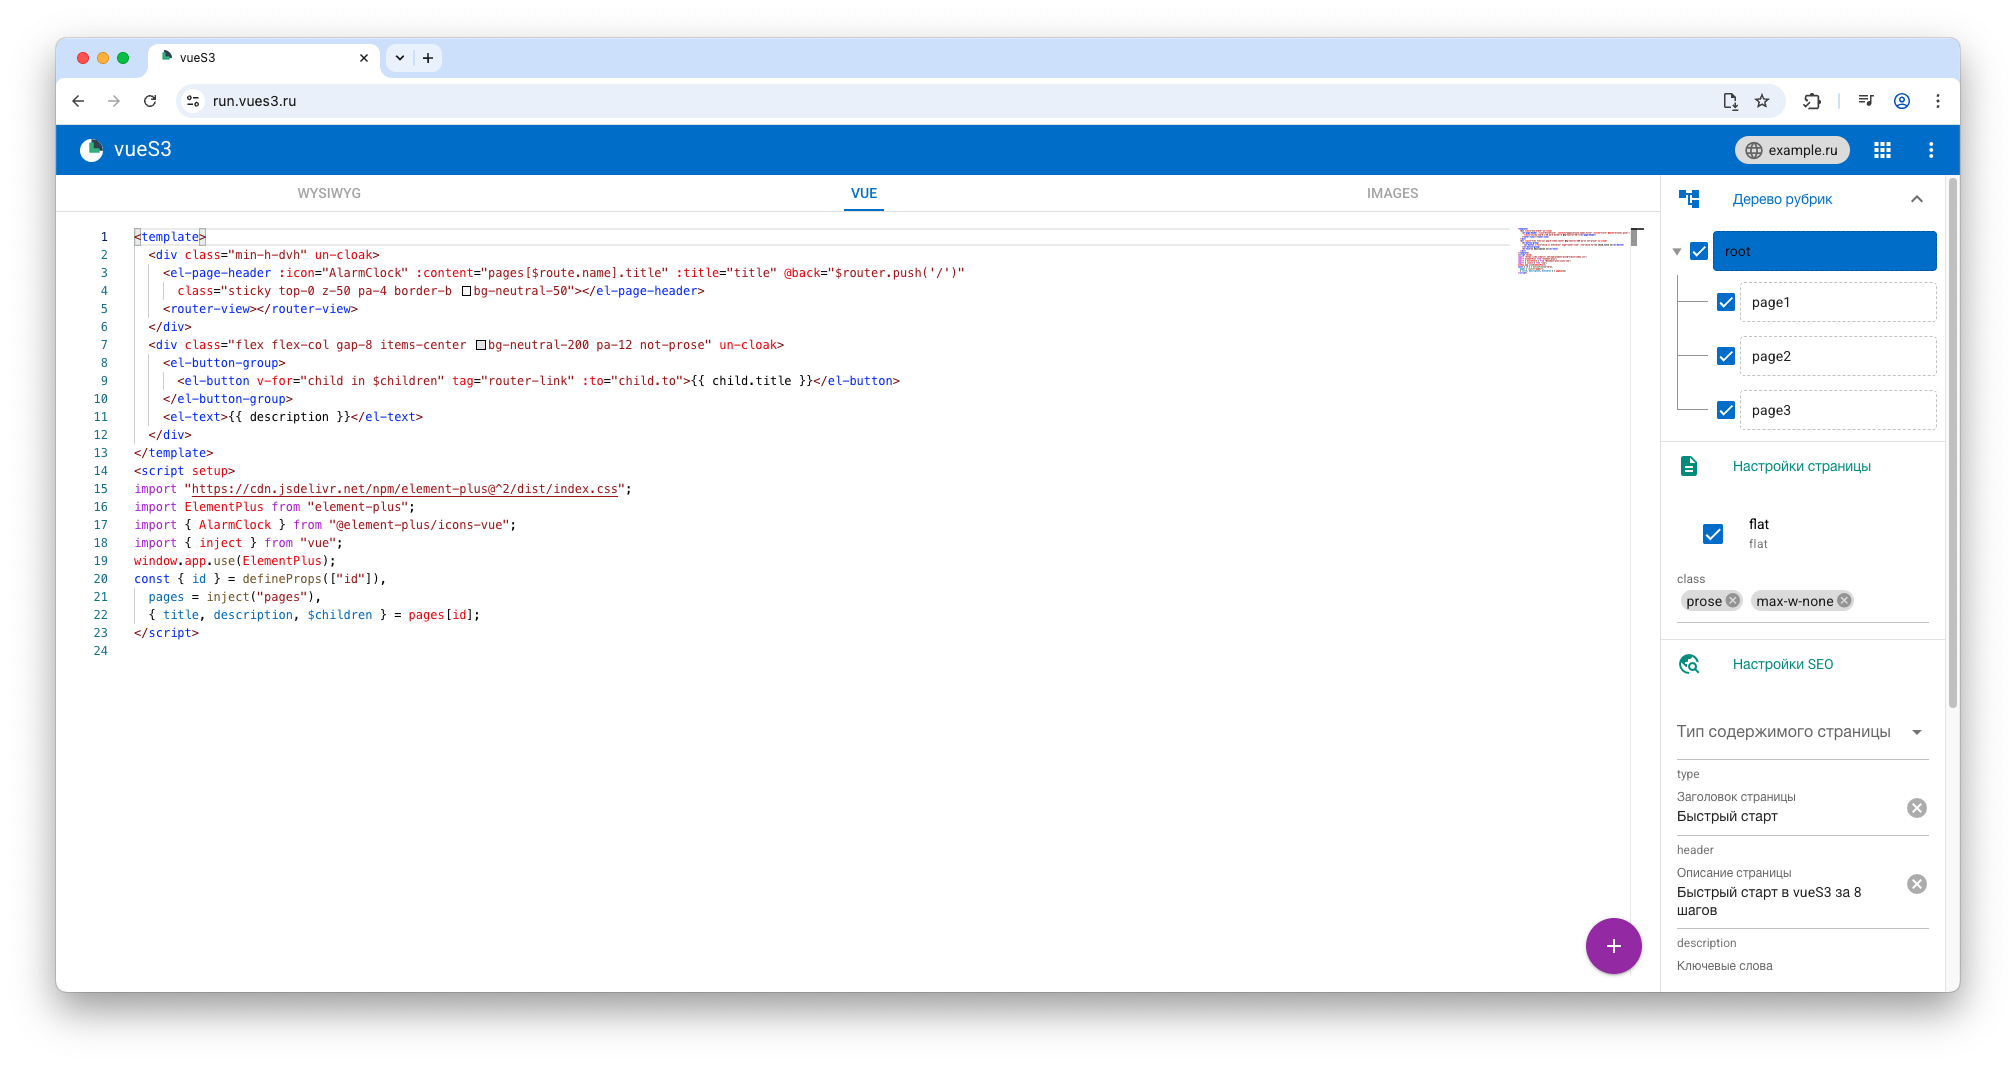
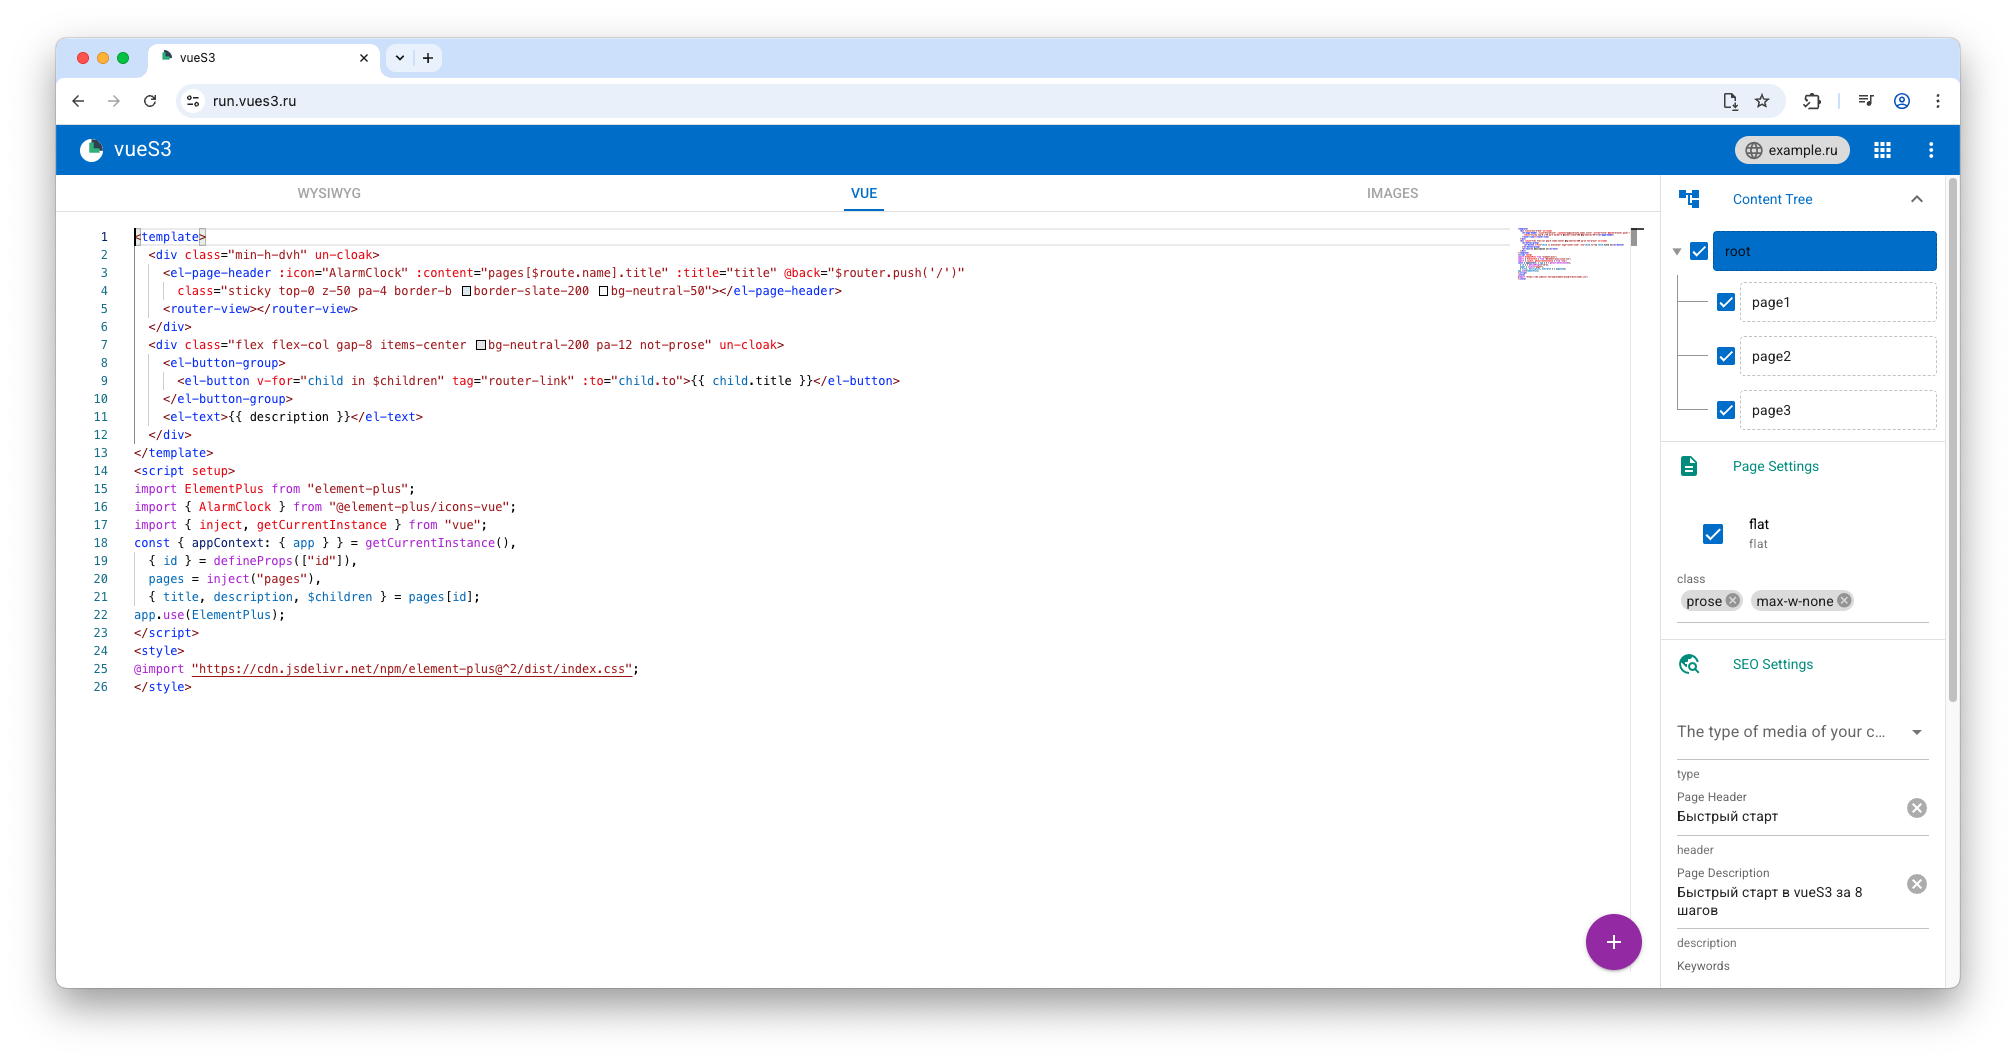
2025-05-05

diff --git a/pages/1d795ae8-237f-4d9d-9e52-54d150f1e5f2.vue b/pages/1d795ae8-237f-4d9d-9e52-54d150f1e5f2.vue
@@ -44,9 +44,6 @@
                 <dd class="text-slate-500">{{ t(`ex2dl.${key}`) }}</dd>
             </template>
         </dl>
-        <p>{{ t("p7") }}:</p>
-        <highlightjs code='import from "url"' language="js" class="not-prose my-6"></highlightjs>
-        <p>{{ t("p8") }}</p>
         <div class="not-prose flex mt-48">
             <el-button-group class="mx-auto">
                 <el-button type="primary" :icon="ArrowLeft" :to="the.$prev.to" v-if="the.$prev" tag="router-link">{{
@@ -96,8 +93,6 @@ const messages = {
             "layer-name": "Is the name of a cascade layer into which the contents of the linked resource are imported.",
             "supports-condition": "Indicates the feature(s) that the browser must support in order for the stylesheet to be imported. If the browser does not conform to the conditions specified in the supports-condition, it may not fetch the linked stylesheet, and even if downloaded through some other path, will not load it.",
         },
-        p7: "Styles can be imported from the `script` section using a simple `import` directive.",
-        p8: "Styles can only be imported via a URL to a .css file; it is not possible to use names, and styles cannot be specified in the `importmap`.",
     },
     ru: {
         h_1: "Импортирование модулей",
@@ -125,8 +120,6 @@ const messages = {
             "layer-name": "Имя каскадного слоя, в который импортируется содержимое связанного ресурса.",
             "supports-condition": "Указывает функцию(и), которую(ые) должен(ы) поддерживать браузер, чтобы таблица стилей была импортирована. Если браузер не соответствует условиям, указанным в supports-condition, он может не получить связанную таблицу стилей, и даже если она будет загружена по другому пути, не загрузит ее.",
         },
-        p7: "Из раздела script стили импортируются с помощью простой директивы import",
-        p8: "Стили импортируются только по URL к .css файлу, невозможно использовать названия и нельзя прописывать стили в importmap.",
     }
 },
     { t } = useI18n({ messages });

diff --git a/pages/2c5b7185-2745-42e4-b5fd-665f2dd36eb9.vue b/pages/2c5b7185-2745-42e4-b5fd-665f2dd36eb9.vue
@@ -26,7 +26,7 @@
               <highlightjs :code="code" v-if="code" class="my-6"></highlightjs>
             </div>
             <div class="col-span-1 lg:col-span-3" v-if="src"><el-image :src="src" :preview-src-list="[src]" v-if="src"
-                class="w-full h-auto" :class="{ border: index === times.length - 1 }" />
+                class="w-full h-auto border-slate-200" :class="{ border: index === times.length - 1 }" />
             </div>
           </div>
         </el-card>
@@ -242,7 +242,7 @@ const {'{'} id {'}'} = defineProps(["id"]),
       code: `<template>
   <div class="min-h-dvh" un-cloak>
     <el-page-header :icon="AlarmClock" :content="pages[$route.name].title" :title="title" @back="$router.push('/')"
-      class="sticky top-0 z-50 pa-4 border-b bg-neutral-50"></el-page-header>
+      class="sticky top-0 z-50 pa-4 border-b border-slate-200 bg-neutral-50"></el-page-header>
     <router-view></router-view>
   </div>
   <div class="flex flex-col gap-8 items-center bg-neutral-200 pa-12 not-prose" un-cloak>
@@ -253,15 +253,18 @@ const {'{'} id {'}'} = defineProps(["id"]),
   </div>
 </template>
 <script setup>
-import "https://cdn.jsdelivr.net/npm/element-plus@^2/dist/index.css";
 import ElementPlus from "element-plus";
 import { AlarmClock } from "@element-plus/icons-vue";
-import { inject } from "vue";
-window.app.use(ElementPlus);
-const { id } = defineProps(["id"]),
+import { inject, getCurrentInstance } from "vue";
+const { appContext: { app } } = getCurrentInstance(),
+  { id } = defineProps(["id"]),
   pages = inject("pages"),
   { title, description, $children } = pages[id];
-<\/script>`,
+app.use(ElementPlus);
+<\/script>
+<style>
+@import "https://cdn.jsdelivr.net/npm/element-plus@^2/dist/index.css";
+</style>`,
       src: "images/qstart/3.png",
       to: [/*t("link42"), t("link43"), t("link44"), t("link45")*/],
     },

diff --git a/pages/6fcec498-bc43-4e42-b0ff-84a690e30656.vue b/pages/6fcec498-bc43-4e42-b0ff-84a690e30656.vue
@@ -67,10 +67,16 @@ const { t } = useI18n({
         key: "vuetify",
         value: "https://cdn.jsdelivr.net/npm/vuetify/dist/vuetify.esm.js"
     }],
-    js = `import "https://cdn.jsdelivr.net/npm/vuetify/dist/vuetify.min.css";
-import { createVuetify, components, directives } from "vuetify";
+    js = `<script setup>
+import { getCurrentInstance } from "vue";
+import { createVuetify } from "vuetify";
+const { appContext: { app } } = getCurrentInstance();
+app.use(createVuetify());
+<\/script>
 
-window.app.use(createVuetify({ components, directives }));`,
+<style>
+@import "https://cdn.jsdelivr.net/npm/vuetify/dist/vuetify.min.css";
+</style>`,
     html = `<v-card class="ma-4 max-w-96">
     <v-img class="align-end text-white h-52" src="https://cdn.vuetifyjs.com/images/cards/docks.jpg" cover>
         <v-card-title>Top 10 Australian beaches</v-card-title>

diff --git a/pages/679f78dd-f175-401d-8f65-40d7ec711558.vue b/pages/679f78dd-f175-401d-8f65-40d7ec711558.vue
@@ -59,10 +59,16 @@ const { t } = useI18n({
         key: "element-plus",
         value: "https://cdn.jsdelivr.net/npm/element-plus/dist/index.full.min.mjs"
     }],
-    js = `import "https://cdn.jsdelivr.net/npm/element-plus/dist/index.css";
+    js = `<script setup>
+import { getCurrentInstance } from "vue";
 import ElementPlus from "element-plus";
+const { appContext: { app } } = getCurrentInstance();
+app.use(ElementPlus);
+<\/script>
 
-window.app.use(ElementPlus.default);`,
+<style>
+@import "https://cdn.jsdelivr.net/npm/element-plus/dist/index.css";
+</style>`,
     html = `<el-card class="ma-4 max-w-96">
     <template #header>Yummy hamburger</template>
     <el-image

diff --git a/pages/3d3687db-a358-4338-8590-379ceb9c4e6a.vue b/pages/3d3687db-a358-4338-8590-379ceb9c4e6a.vue
@@ -72,10 +72,16 @@ const { t } = useI18n({
         key: "quasar",
         value: "https://cdn.jsdelivr.net/npm/quasar/dist/quasar.client.js"
     }],
-    js = `import "https://cdn.jsdelivr.net/npm/quasar/dist/quasar.prod.css";
+    js = `<script setup>
+import { getCurrentInstance } from "vue";
 import { Quasar } from "quasar";
+const { appContext: { app } } = getCurrentInstance();
+app.use(Quasar);
+<\/script>
 
-window.app.use(Quasar);`,
+<style>
+@import "https://cdn.jsdelivr.net/npm/quasar/dist/quasar.prod.css";
+</style>`,
     html = `<q-card class="ma-4 max-w-96" flat bordered>
     <q-img src="https://cdn.quasar.dev/img/parallax2.jpg" />
     <q-card-section>
